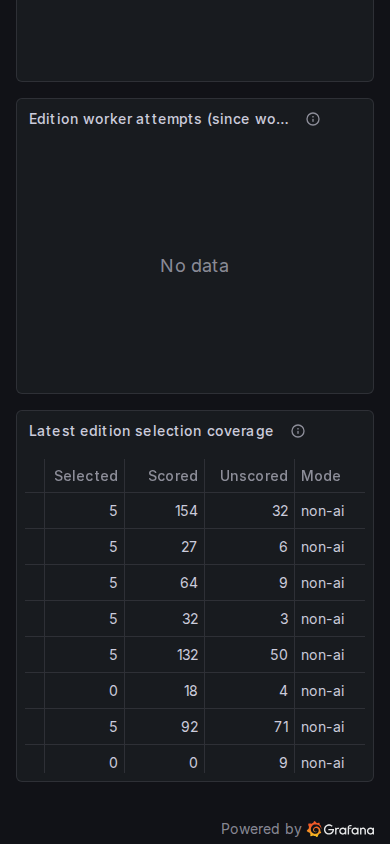
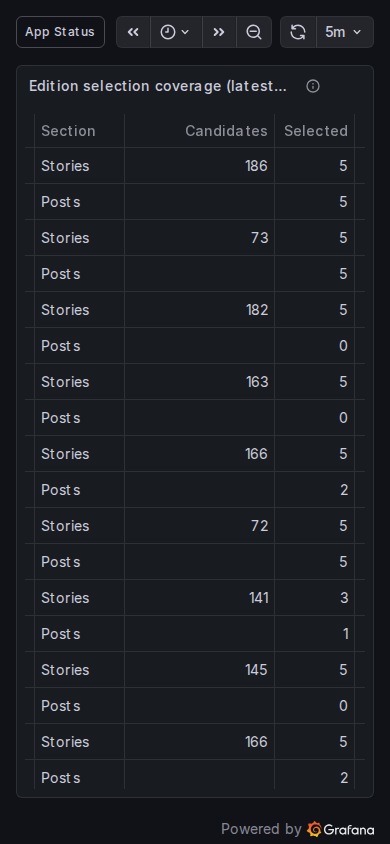
Show recent edition selection coverage and story candidates

diff --git a/scripts/lib/check-grafana.ts b/scripts/lib/check-grafana.ts
@@ -313,6 +313,7 @@ export async function checkGrafana() {
           'Articles (7d)',
           'AI story topics',
           'Charged ($)',
+          'Candidates',
           'Scored',
           'Unscored',
           'Reason',
@@ -518,7 +519,7 @@ export async function checkGrafana() {
       if (
         await page
           .getByRole('heading', {
-            name: 'Latest edition selection coverage',
+            name: 'Edition selection coverage (latest seven editions)',
             exact: true,
           })
           .count()
@@ -528,7 +529,7 @@ export async function checkGrafana() {
       await page.waitForTimeout(300);
     }
     const selection = page.getByRole('heading', {
-      name: 'Latest edition selection coverage',
+      name: 'Edition selection coverage (latest seven editions)',
       exact: true,
     });
     await selection.scrollIntoViewIfNeeded();
@@ -539,7 +540,7 @@ export async function checkGrafana() {
           element.scrollWidth > element.clientWidth &&
           element.clientWidth > 200
         )
-          element.scrollLeft = 280;
+          element.scrollLeft = 500;
       }
     });
     await page.waitForTimeout(1500);

diff --git a/PROGRESS.md b/PROGRESS.md
@@ -123,3 +123,12 @@ Earlier entries: [iterations 269–270](docs/progress-archive/2026-11-03-iterati
 - `pnpm format`, `pnpm lint:fix`, `pnpm check` (238 unit/172 integration), `pnpm build`, handbook 09 and `git diff --check` passed.
 - Live edition timing evidence complete; prior scheduled outcome remains fallback, not fresh AI timing. No paid calls, Reddit requests, cap/schedule or activation changes.
 - Next: collect and ack Nov 3 scheduled cost/yield/AI timing; activation stays gated.
+
+## 2026-11-03: iteration 390 — recent edition selection history
+
+- Started clean on main; no leftover work. Services/health green, 32 sources without current errors and no failed digest jobs; two historical ingestion failures remain recovered. Nov 3 scheduled evidence/acks still due 15:00 UTC.
+- Product selection coverage now spans seven immutable editions with edition identity/time and stored story candidate counts, alongside picks, scored/unscored counts and editorial outcomes. Includes manual revisions; absent post candidate counts/editorial metadata stay unknown, empty selections are zero.
+- Read-only SQL fixture verified six populated/empty/missing story/post rows. Live queries and restricted Viewer permissions passed `pnpm exec tsx scripts/check-observability.ts --verify-grafana`; desktop/mobile screenshots reviewed, including a focused mobile candidate-column check.
+- `pnpm format`, `pnpm lint:fix`, `pnpm check` (238 unit/172 integration), `pnpm build`, handbook 09 and `git diff --check` passed; final formatting/lint repeated after screenshot-scroll adjustment.
+- Updated handbook/observability plan/TASKS; existing reader grants suffice. Grafana reloaded its dashboard; no running application code/config changed, so no service restarts. No provider calls or content/cap/schedule/activation changes.
+- Next: collect and ack Nov 3 scheduled cost/yield/AI timing; production activation stays gated.

diff --git a/TASKS.md b/TASKS.md
@@ -70,4 +70,4 @@ M0–M2; M3/M6/M7 foundations implemented.
 - [ ] STEERING 2a (lower priority): finish repository/HTTP characterization before ORM. Isolated DB/Redis, migrations, HTTP/worker and synthetic-AI goldens implemented (183–270); gaps: [database verification](docs/DATABASE-VERIFICATION.md). No live DB; finish 2a before ORM. Recorded-response golden open.
 - [ ] STEERING 2b (only after 2a is green): record Drizzle decision/schema parity, back up live DB, gradually replace raw SQL behind ports and enforce boundaries.
 
-- [ ] STEERING 24 (background): [observability plan](docs/observability-plan.md), only while product work is blocked. O1–O5 verified; O6 has Host/Services/HTTP/Jobs/Errors/Product/Database/Redis/App runtime dashboards, including provider admissions/outcomes and configured ceilings. Iteration 389 adds recent per-topic social-platform selection counts with explicit zero/unknown handling. Remaining: Agent, individual edition timing, O7 top queries. Scheduled evidence/acks first; preserve caps and run protection.
+- [ ] STEERING 24 (background): [observability plan](docs/observability-plan.md), only while product work is blocked. O1–O5 verified; O6 has Host/Services/HTTP/Jobs/Errors/Product/Database/Redis/App runtime dashboards, including provider admissions/outcomes and configured ceilings. Iterations 389–390 add recent per-topic social-platform counts and story/post selection history with story candidate counts and explicit zero/unknown handling. Remaining: Agent, individual edition timing, O7 top queries. Scheduled evidence/acks first; preserve caps and run protection.

diff --git a/docs/handbook/01-app/09-observability.md b/docs/handbook/01-app/09-observability.md
@@ -260,7 +260,7 @@ and unresolved holds. Zero calls may mean cached or fallback work. It excludes X
 discovery and unpublished attempts, so it is not total scheduled-run spend.
 Seven-day article counts include the last 24 hours and use publication time, not discovery time.
 Source response counts include duplicates and older items; they are not new-item yield.
-The latest edition selection table shows story/post picks, stored triage and unscored counts, modes and reasons per topic. Missing editorial metadata stays blank; triage can be cached, and unscored IDs are not all rejected candidates.
+The selection table shows story/post picks, stored triage and unscored counts, modes and reasons per topic across the latest seven immutable editions, including manual editions and revisions. Story candidate counts help compare coverage; post candidate counts are unavailable and stay blank. Missing selections count as zero and missing editorial metadata stays blank. Triage can be cached, and unscored IDs are not all rejected candidates. The edition limit ignores the time picker.
 
 A social-platform table counts X, Bluesky, Reddit and other selected posts per topic in the latest seven editions, including manual editions and revisions. Topics with no posts remain visible with zeros. These counts describe stored selections, not platform activity, engagement or incremental discovery yield.
 

diff --git a/docs/observability-plan.md b/docs/observability-plan.md
@@ -337,3 +337,5 @@ O6 incremental progress (384): Anthropic history adds recorded outcome time and 
 O6 incremental progress (385): Product graphs API startup-configured Anthropic/X daily and monthly ceilings in USD. Fixed provider/period labels, no database or ledger locks and no provider calls. Ceilings are not the paced daily allowance, reserve or available funds; these remain on Status.
 
 O6 incremental progress (389): Product shows per-topic X/Bluesky/Reddit/other selection counts in the latest seven immutable editions. Quiet topics stay visible with zero counts; missing posts are zero and unknown platforms stay separate. Counts describe selections, not engagement or discovery yield. Existing reader grants only; no provider calls or production-content changes.
+
+O6 incremental progress (390): Product selection coverage spans the latest seven immutable editions with edition identity/time and stored story candidate counts. Post candidates remain unknown; empty selections are zero and absent editorial metadata stays blank. Manual editions and revisions are included; cached triage is not fresh provider work. Existing reader grants only.
